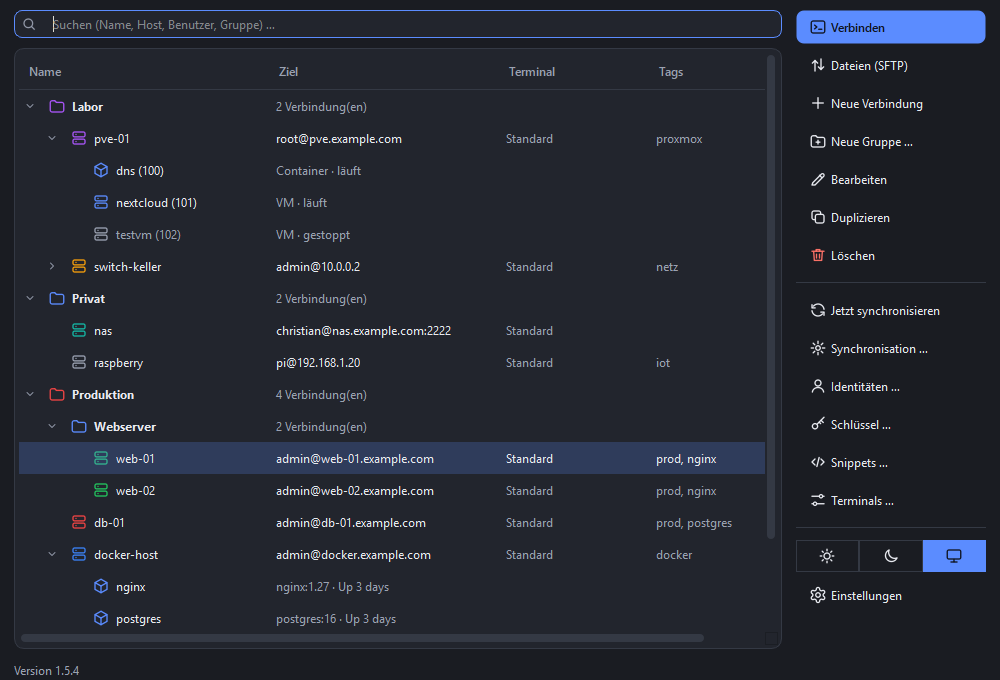
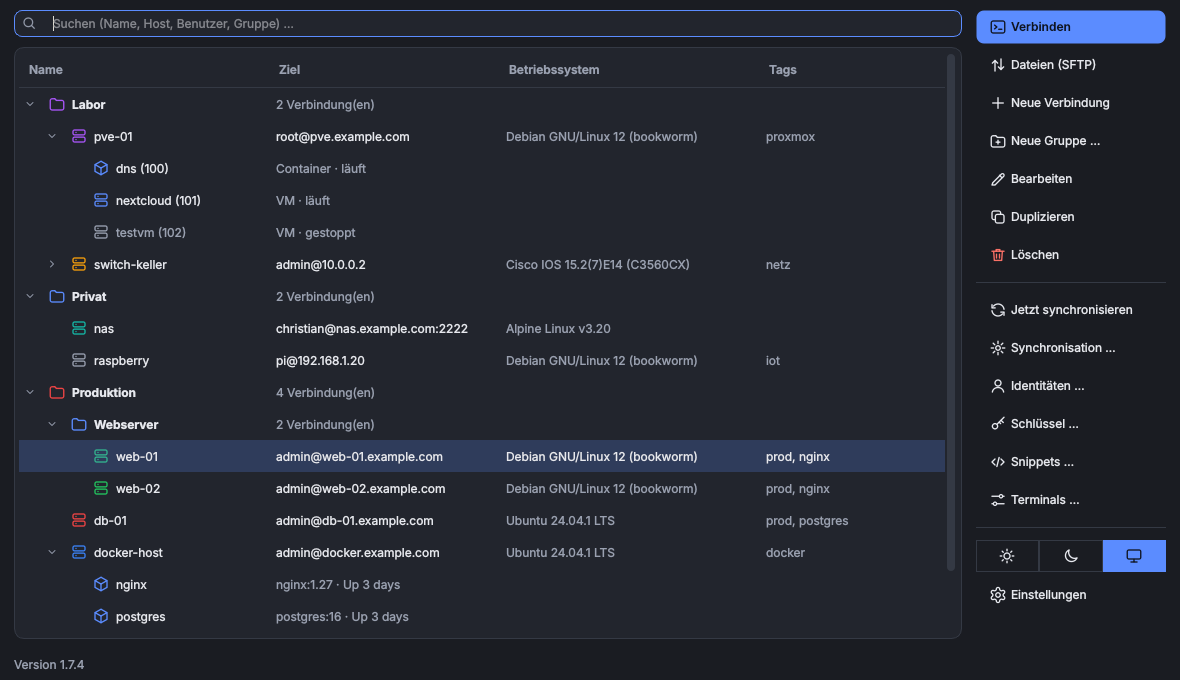
Screenshots: Hauptfenster mit Spalte Betriebssystem (inkl. Cisco), Version 1.7.4
tools/screenshots.py: Beispieldaten mit Betriebssystem, Spalte eingeblendet, breiteres Fenster.

Claude-Session: https://claude.ai/code/session_01LZ7SSKBQ9HoBAYiD7Wm4MZ

diff --git a/tools/screenshots.py b/tools/screenshots.py
@@ -42,18 +42,29 @@ def demo_config() -> tuple[Config, dict[str, Connection]]:
     def add(key, name, host, **kw):
         c[key] = Connection(name=name, host=host, user=kw.pop("user", "admin"), **kw)
 
-    add("web1", "web-01", "web-01.example.com", group="Produktion/Webserver", color="green", tags=["prod", "nginx"], use_password=True)
-    add("web2", "web-02", "web-02.example.com", group="Produktion/Webserver", color="green", tags=["prod", "nginx"])
-    add("db", "db-01", "db-01.example.com", group="Produktion", color="red", tags=["prod", "postgres"], sudo_mode="login")
-    add("docker", "docker-host", "docker.example.com", group="Produktion", color="blue", tags=["docker"], docker=True, docker_shell="/bin/bash")
-    add("pve", "pve-01", "pve.example.com", group="Labor", color="purple", tags=["proxmox"], proxmox=True, user="root")
-    add("sw", "switch-keller", "10.0.0.2", group="Labor", color="orange", tags=["netz"], cisco=True)
-    add("nas", "nas", "nas.example.com", group="Privat", color="teal", port=2222, user="christian")
-    add("pi", "raspberry", "192.168.1.20", group="Privat", user="pi", tags=["iot"])
+    stamp = time.time()  # frisch ermittelt: die Spalte „Betriebssystem“ zeigt die Werte, ohne dass eine Abfrage startet
+    add("web1", "web-01", "web-01.example.com", group="Produktion/Webserver", color="green", tags=["prod", "nginx"], use_password=True,
+        os_info="Debian GNU/Linux 12 (bookworm)", os_checked=stamp)
+    add("web2", "web-02", "web-02.example.com", group="Produktion/Webserver", color="green", tags=["prod", "nginx"],
+        os_info="Debian GNU/Linux 12 (bookworm)", os_checked=stamp)
+    add("db", "db-01", "db-01.example.com", group="Produktion", color="red", tags=["prod", "postgres"], sudo_mode="login",
+        os_info="Ubuntu 24.04.1 LTS", os_checked=stamp)
+    add("docker", "docker-host", "docker.example.com", group="Produktion", color="blue", tags=["docker"], docker=True,
+        docker_shell="/bin/bash", os_info="Ubuntu 24.04.1 LTS", os_checked=stamp)
+    add("pve", "pve-01", "pve.example.com", group="Labor", color="purple", tags=["proxmox"], proxmox=True, user="root",
+        os_info="Debian GNU/Linux 12 (bookworm)", os_checked=stamp)
+    add("sw", "switch-keller", "10.0.0.2", group="Labor", color="orange", tags=["netz"], cisco=True,
+        os_info="Cisco IOS 15.2(7)E14 (C3560CX)", os_checked=stamp)
+    add("nas", "nas", "nas.example.com", group="Privat", color="teal", port=2222, user="christian",
+        os_info="Alpine Linux v3.20", os_checked=stamp)
+    add("pi", "raspberry", "192.168.1.20", group="Privat", user="pi", tags=["iot"],
+        os_info="Debian GNU/Linux 12 (bookworm)", os_checked=stamp)
     cfg = Config(connections=list(c.values()))
     term = Terminal("Windows Terminal", "wt.exe new-tab --title {title} {ssh_args}", platform="windows")
     cfg.terminals = [term, Terminal("GNOME Terminal", "gnome-terminal --title {title} -- {ssh_args}", platform="linux")]
     cfg.default_terminal_id = term.id
+    cfg.hidden_columns = ["terminal"]  # Platz für die Spalte „Betriebssystem“ (sonst standardmäßig ausgeblendet)
+    cfg.column_widths = [250, 230, 150, 150, 260]  # Name, Ziel, Terminal, Tags, Betriebssystem: lange Werte ungekürzt
     cfg.groups = ["Produktion", "Produktion/Webserver", "Labor", "Privat"]
     cfg.group_colors = {"Produktion": "red", "Labor": "purple"}
     cfg.snippets = [
@@ -81,7 +92,7 @@ def main_window(cfg, conns, tmp: Path, out: Path, label: str) -> None:
     from sesam.gui.main_window import MainWindow
 
     w = MainWindow(cfg, tmp / "config.json")
-    w.resize(1000, 680)
+    w.resize(1180, 680)
     w.show()
     QApplication.processEvents()
     boxes = [
@@ -102,7 +113,7 @@ def main_window(cfg, conns, tmp: Path, out: Path, label: str) -> None:
     item = w._find_item(conns["web1"].id)
     if item is not None:
         w.tree.setCurrentItem(item)
-    w.resize(1000, 680)
+    w.resize(1180, 680)
     grab(w, out / f"hauptfenster-{label}.png")
     w.close()
 
